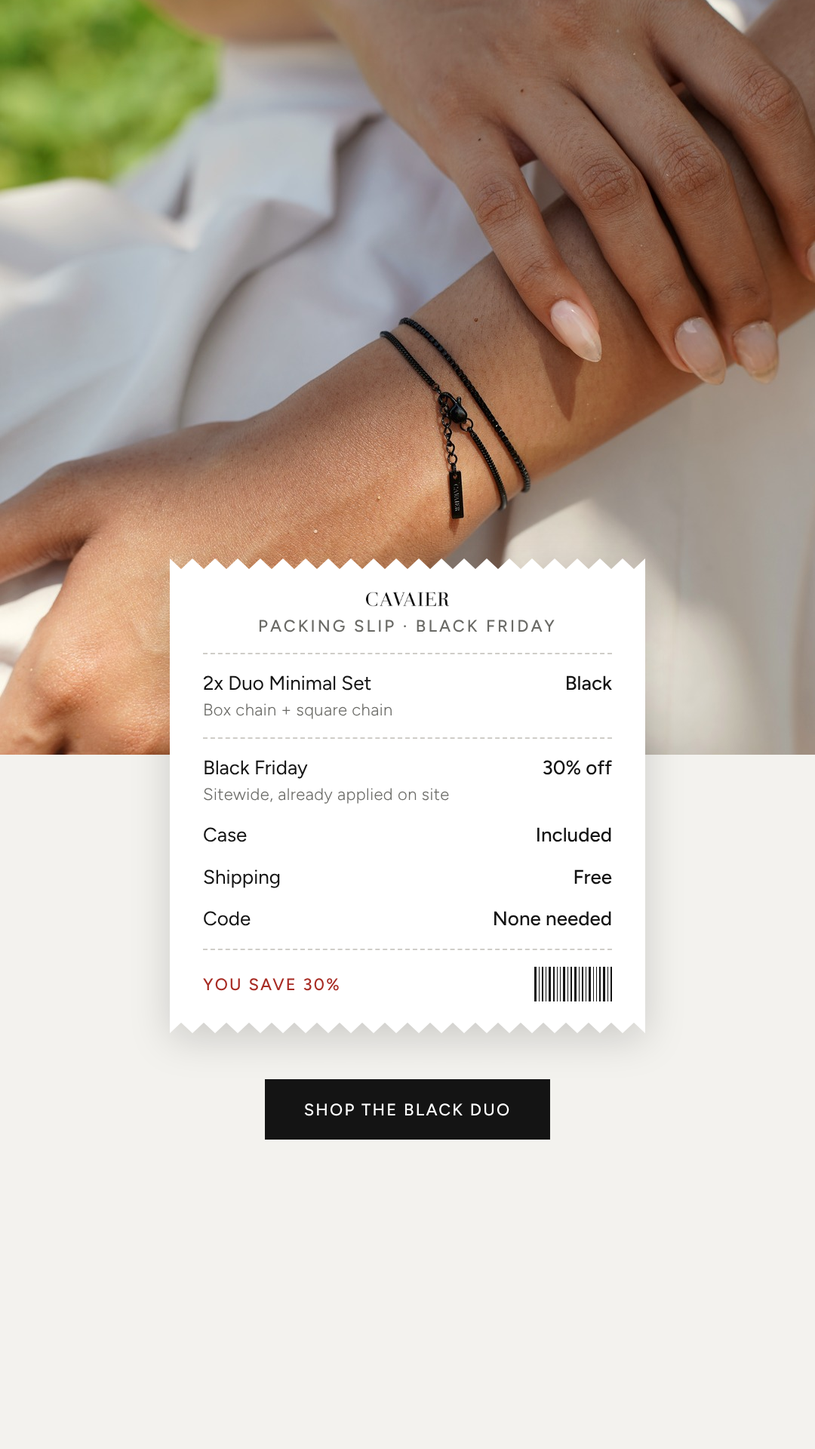
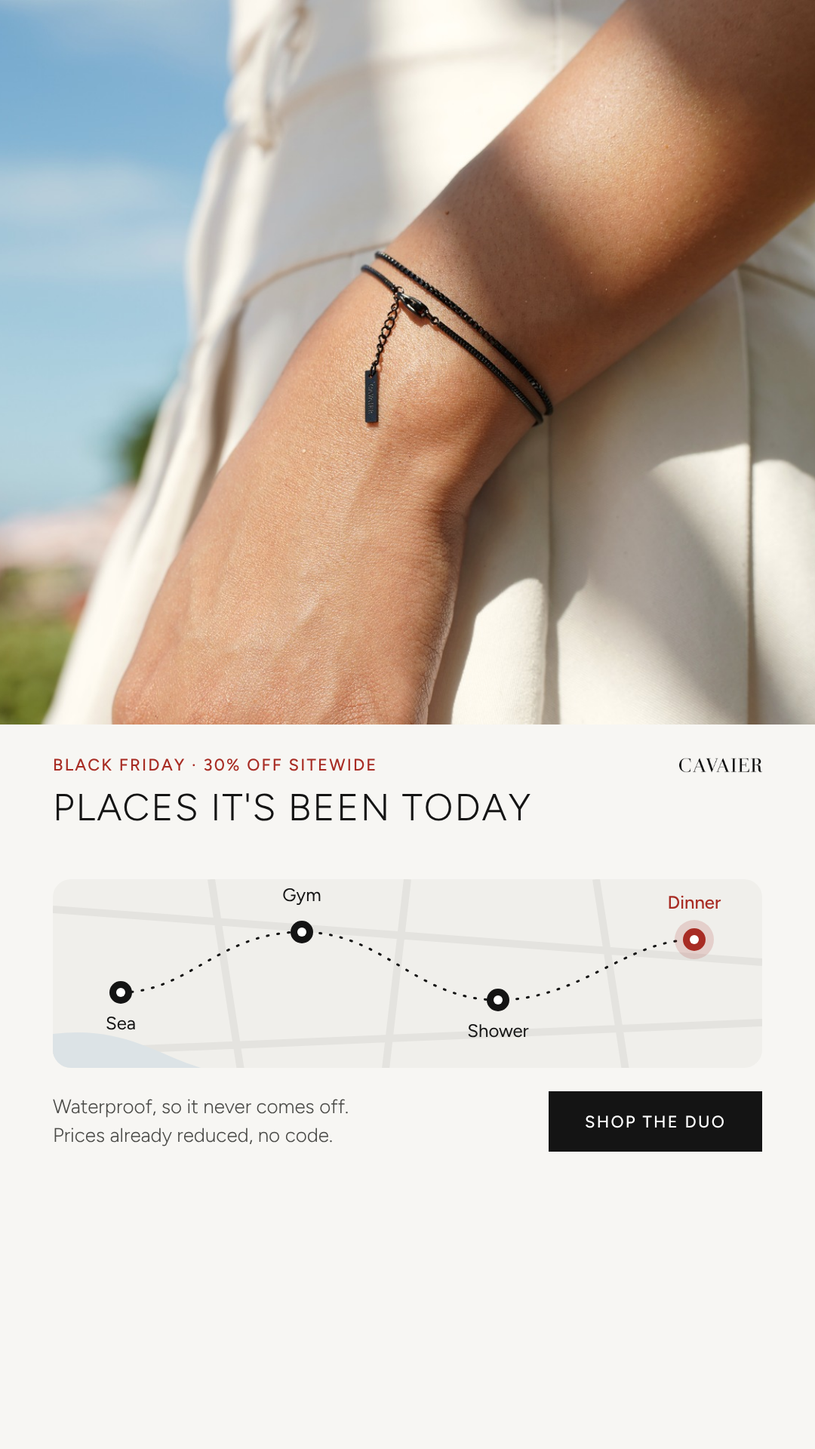
W435 new concepts: weather widget, now playing, places it's been (real RAW S9 photos)
Claude-Session: https://claude.ai/code/session_01LtGMNmy7hV4kZNsS3Vsb6Q

diff --git a/bfcm26/canvas/W435-C1.dc.html b/bfcm26/canvas/W435-C1.dc.html
@@ -2,7 +2,7 @@
 <html lang="en">
 <head>
 <meta charset="utf-8">
-<title>W Batch 435 - C1 · One duo, three ways</title>
+<title>W Batch 435 - C1 · Weather widget (black duo)</title>
 <script src="./support.js"></script>
 </head>
 <body>
@@ -14,18 +14,34 @@ body{margin:0}
 a{color:#141414}a:hover{color:#000000}
 </style>
 </helmet>
-<div style="width: 1080px; height: 1920px; position: relative; overflow: hidden; background: #F6F5F2; font-family: Figtree, sans-serif; color: #141414">
-<div style="position: absolute; top: 290px; left: 70px; width: 940px; display: flex; justify-content: space-between; align-items: flex-start">
-<div style="display: flex; flex-direction: column; gap: 18px">
-<span style="font-size: 22px; font-weight: 500; letter-spacing: 0.1em; color: #A82C24">BLACK FRIDAY · 30% OFF</span>
-<h1 style="margin: 0; font-size: 52px; line-height: 1.15; letter-spacing: 0.04em; font-weight: 300; text-transform: uppercase">One duo,<br><span style="font-weight: 400">three ways.</span></h1>
+<div style="width: 1080px; height: 1920px; position: relative; overflow: hidden; background: #EDEBE6; font-family: Figtree, sans-serif; color: #141414">
+<img src="/_blob/60d5c3dea2ec05bf77f0bec57ecd12a9" alt="Wet wrist with the black duo, hand dipping into the sea" style="position: absolute; inset: 0; width: 1080px; height: 1920px; object-fit: cover; display: block">
+<div style="position: absolute; top: 290px; left: 70px; width: 940px; box-sizing: border-box; padding: 40px 48px 44px; background: rgba(250,250,248,0.94); border-radius: 40px; box-shadow: 0 10px 40px rgba(0,0,0,0.10)">
+<div style="display: flex; justify-content: space-between; align-items: center">
+<span style="font-size: 22px; font-weight: 500; letter-spacing: 0.1em">TODAY · BEACH DAY</span>
+<img src="/_blob/b5d78a878b48e10609c923597dd1852e" alt="Cavaier" style="width: 110px; height: auto; display: block">
 </div>
-<img src="/_blob/b5d78a878b48e10609c923597dd1852e" alt="Cavaier" style="width: 110px; height: auto; display: block; margin-top: 6px">
+<div style="display: flex; align-items: center; justify-content: space-between; margin-top: 18px">
+<span style="font-size: 150px; font-weight: 300; line-height: 1; letter-spacing: -0.02em">29°</span>
+<div style="display: flex; flex-direction: column; align-items: flex-end; gap: 8px">
+<svg width="56" height="56" viewBox="0 0 56 56"><circle cx="28.0" cy="28.0" r="12.3" fill="none" stroke="#141414" stroke-width="2"/><line x1="47.0" y1="28.0" x2="54.3" y2="28.0" stroke="#141414" stroke-width="2" stroke-linecap="round"/><line x1="41.5" y1="41.5" x2="46.6" y2="46.6" stroke="#141414" stroke-width="2" stroke-linecap="round"/><line x1="28.0" y1="47.0" x2="28.0" y2="54.3" stroke="#141414" stroke-width="2" stroke-linecap="round"/><line x1="14.5" y1="41.5" x2="9.4" y2="46.6" stroke="#141414" stroke-width="2" stroke-linecap="round"/><line x1="9.0" y1="28.0" x2="1.7" y2="28.0" stroke="#141414" stroke-width="2" stroke-linecap="round"/><line x1="14.5" y1="14.5" x2="9.4" y2="9.4" stroke="#141414" stroke-width="2" stroke-linecap="round"/><line x1="28.0" y1="9.0" x2="28.0" y2="1.7" stroke="#141414" stroke-width="2" stroke-linecap="round"/><line x1="41.5" y1="14.5" x2="46.6" y2="9.4" stroke="#141414" stroke-width="2" stroke-linecap="round"/></svg>
+<span style="font-size: 30px; font-weight: 400">Sunny</span>
+<span style="font-size: 24px; font-weight: 300; color: #4A4A47">UV high · sea 22°</span>
 </div>
-<div style="position: absolute; top: 1440px; left: 70px; width: 940px; display: flex; align-items: center; justify-content: space-between">
-<span style="font-size: 24px; font-weight: 300; line-height: 1.5; color: #3A3A38">Black Friday: 30% off sitewide.<br>Prices already reduced.</span>
-<a href="https://cavaier.com/products/2x-duo-minimal-set-for-her?variant=54997776892250" style="display: inline-flex; align-items: center; justify-content: center; height: 80px; padding: 0 52px; background: #141414; color: #FFFFFF; text-decoration: none; font-size: 22px; font-weight: 500; letter-spacing: 0.1em">SHOP THE BLACK DUO</a>
-</div><div style="position: absolute; top: 540px; left: 70px; width: 940px; display: flex; justify-content: space-between"><figure style="margin: 0; width: 300px; display: flex; flex-direction: column; gap: 22px"><div style="position: relative; width: 300px; height: 700px"><img src="/_blob/151a6b8a6643e2803e13e68756fb3445" alt="The black duo on a wrist at the beach, sea behind" style="width: 300px; height: 700px; object-fit: cover; object-position: 50% 50%; display: block"><span style="position: absolute; top: 16px; left: 16px; width: 54px; height: 54px; display: flex; align-items: center; justify-content: center; background: #FFFFFF; color: #141414; font-size: 22px; font-weight: 500; letter-spacing: 0.04em; border-radius: 50%">01</span></div><figcaption style="display: flex; flex-direction: column; gap: 6px"><span style="font-size: 22px; font-weight: 500; letter-spacing: 0.1em">BEACH</span><span style="font-size: 24px; font-weight: 300; color: #3A3A38">Sea, salt and sun</span></figcaption></figure><figure style="margin: 0; width: 300px; display: flex; flex-direction: column; gap: 22px"><div style="position: relative; width: 300px; height: 700px"><img src="/_blob/5b96df18640eb4fc65700120faaa4210" alt="The black duo on a wrist with a white tank top" style="width: 300px; height: 700px; object-fit: cover; object-position: 50% 45%; display: block"><span style="position: absolute; top: 16px; left: 16px; width: 54px; height: 54px; display: flex; align-items: center; justify-content: center; background: #FFFFFF; color: #141414; font-size: 22px; font-weight: 500; letter-spacing: 0.04em; border-radius: 50%">02</span></div><figcaption style="display: flex; flex-direction: column; gap: 6px"><span style="font-size: 22px; font-weight: 500; letter-spacing: 0.1em">EVERYDAY</span><span style="font-size: 24px; font-weight: 300; color: #3A3A38">With a white tank</span></figcaption></figure><figure style="margin: 0; width: 300px; display: flex; flex-direction: column; gap: 22px"><div style="position: relative; width: 300px; height: 700px"><img src="/_blob/50d863f1681dc6e32bb5e8be1f652d54" alt="The black duo on a wrist against a black top" style="width: 300px; height: 700px; object-fit: cover; object-position: 50% 45%; display: block"><span style="position: absolute; top: 16px; left: 16px; width: 54px; height: 54px; display: flex; align-items: center; justify-content: center; background: #FFFFFF; color: #141414; font-size: 22px; font-weight: 500; letter-spacing: 0.04em; border-radius: 50%">03</span></div><figcaption style="display: flex; flex-direction: column; gap: 6px"><span style="font-size: 22px; font-weight: 500; letter-spacing: 0.1em">EVENING</span><span style="font-size: 24px; font-weight: 300; color: #3A3A38">All black, tag out</span></figcaption></figure></div>
+</div>
+<div style="display: flex; justify-content: space-between; margin-top: 30px; padding-top: 28px; border-top: 1px solid #D9D8D4"><div style="display: flex; flex-direction: column; align-items: center; gap: 12px; width: 150px"><span style="font-size: 22px; font-weight: 400; color: #4A4A47">09:00</span><svg width="34" height="34" viewBox="0 0 34 34"><circle cx="17.0" cy="17.0" r="7.5" fill="none" stroke="#141414" stroke-width="2"/><line x1="28.6" y1="17.0" x2="33.0" y2="17.0" stroke="#141414" stroke-width="2" stroke-linecap="round"/><line x1="25.2" y1="25.2" x2="28.3" y2="28.3" stroke="#141414" stroke-width="2" stroke-linecap="round"/><line x1="17.0" y1="28.6" x2="17.0" y2="33.0" stroke="#141414" stroke-width="2" stroke-linecap="round"/><line x1="8.8" y1="25.2" x2="5.7" y2="28.3" stroke="#141414" stroke-width="2" stroke-linecap="round"/><line x1="5.4" y1="17.0" x2="1.0" y2="17.0" stroke="#141414" stroke-width="2" stroke-linecap="round"/><line x1="8.8" y1="8.8" x2="5.7" y2="5.7" stroke="#141414" stroke-width="2" stroke-linecap="round"/><line x1="17.0" y1="5.4" x2="17.0" y2="1.0" stroke="#141414" stroke-width="2" stroke-linecap="round"/><line x1="25.2" y1="8.8" x2="28.3" y2="5.7" stroke="#141414" stroke-width="2" stroke-linecap="round"/></svg><span style="font-size: 27px; font-weight: 400">26°</span></div><div style="display: flex; flex-direction: column; align-items: center; gap: 12px; width: 150px"><span style="font-size: 22px; font-weight: 400; color: #4A4A47">12:00</span><svg width="34" height="34" viewBox="0 0 34 34"><circle cx="17.0" cy="17.0" r="7.5" fill="none" stroke="#141414" stroke-width="2"/><line x1="28.6" y1="17.0" x2="33.0" y2="17.0" stroke="#141414" stroke-width="2" stroke-linecap="round"/><line x1="25.2" y1="25.2" x2="28.3" y2="28.3" stroke="#141414" stroke-width="2" stroke-linecap="round"/><line x1="17.0" y1="28.6" x2="17.0" y2="33.0" stroke="#141414" stroke-width="2" stroke-linecap="round"/><line x1="8.8" y1="25.2" x2="5.7" y2="28.3" stroke="#141414" stroke-width="2" stroke-linecap="round"/><line x1="5.4" y1="17.0" x2="1.0" y2="17.0" stroke="#141414" stroke-width="2" stroke-linecap="round"/><line x1="8.8" y1="8.8" x2="5.7" y2="5.7" stroke="#141414" stroke-width="2" stroke-linecap="round"/><line x1="17.0" y1="5.4" x2="17.0" y2="1.0" stroke="#141414" stroke-width="2" stroke-linecap="round"/><line x1="25.2" y1="8.8" x2="28.3" y2="5.7" stroke="#141414" stroke-width="2" stroke-linecap="round"/></svg><span style="font-size: 27px; font-weight: 400">29°</span></div><div style="display: flex; flex-direction: column; align-items: center; gap: 12px; width: 150px"><span style="font-size: 22px; font-weight: 400; color: #4A4A47">15:00</span><svg width="34" height="34" viewBox="0 0 34 34"><circle cx="17.0" cy="17.0" r="7.5" fill="none" stroke="#141414" stroke-width="2"/><line x1="28.6" y1="17.0" x2="33.0" y2="17.0" stroke="#141414" stroke-width="2" stroke-linecap="round"/><line x1="25.2" y1="25.2" x2="28.3" y2="28.3" stroke="#141414" stroke-width="2" stroke-linecap="round"/><line x1="17.0" y1="28.6" x2="17.0" y2="33.0" stroke="#141414" stroke-width="2" stroke-linecap="round"/><line x1="8.8" y1="25.2" x2="5.7" y2="28.3" stroke="#141414" stroke-width="2" stroke-linecap="round"/><line x1="5.4" y1="17.0" x2="1.0" y2="17.0" stroke="#141414" stroke-width="2" stroke-linecap="round"/><line x1="8.8" y1="8.8" x2="5.7" y2="5.7" stroke="#141414" stroke-width="2" stroke-linecap="round"/><line x1="17.0" y1="5.4" x2="17.0" y2="1.0" stroke="#141414" stroke-width="2" stroke-linecap="round"/><line x1="25.2" y1="8.8" x2="28.3" y2="5.7" stroke="#141414" stroke-width="2" stroke-linecap="round"/></svg><span style="font-size: 27px; font-weight: 400">29°</span></div><div style="display: flex; flex-direction: column; align-items: center; gap: 12px; width: 150px"><span style="font-size: 22px; font-weight: 400; color: #4A4A47">Sea</span><svg width="34" height="34" viewBox="0 0 34 34"><path d="M3 13 q4.5 -5 9 0 t9 0 t9 0" fill="none" stroke="#141414" stroke-width="2" stroke-linecap="round"/><path d="M3 22 q4.5 -5 9 0 t9 0 t9 0" fill="none" stroke="#141414" stroke-width="2" stroke-linecap="round"/></svg><span style="font-size: 27px; font-weight: 400">22°</span></div></div>
+<div style="display: flex; align-items: center; gap: 18px; margin-top: 30px; padding-top: 28px; border-top: 1px solid #D9D8D4">
+<svg width="30" height="30" viewBox="0 0 30 30"><circle cx="15" cy="15" r="14" fill="#141414"/><path d="M9 15.5 l4 4 l8 -9" fill="none" stroke="#FFFFFF" stroke-width="2.2" stroke-linecap="round" stroke-linejoin="round"/></svg>
+<span style="font-size: 27px; font-weight: 300; line-height: 1.4"><span style="font-weight: 500">Your black duo:</span> waterproof, stays on.</span>
+</div>
+<div style="display: flex; align-items: center; justify-content: space-between; margin-top: 30px; padding-top: 30px; border-top: 1px solid #D9D8D4">
+<div style="display: flex; flex-direction: column; gap: 8px">
+<span style="font-size: 22px; font-weight: 500; letter-spacing: 0.1em; color: #A82C24">BLACK FRIDAY</span>
+<span style="font-size: 27px; font-weight: 300; line-height: 1.35">30% off sitewide.<br>No code needed.</span>
+</div>
+<a href="https://cavaier.com/products/2x-duo-minimal-set-for-her?variant=54997776892250" style="display: inline-flex; align-items: center; justify-content: center; height: 80px; padding: 0 48px; background: #141414; color: #FFFFFF; text-decoration: none; font-size: 22px; font-weight: 500; letter-spacing: 0.1em; white-space: nowrap; ">SHOP THE DUO</a>
+</div>
+</div>
 </div>
 </x-dc>
 <script type="text/x-dc" data-dc-script data-props='{"$preview":{"width":1080,"height":1920}}'>

diff --git a/bfcm26/canvas/W435-C3.dc.html b/bfcm26/canvas/W435-C3.dc.html
@@ -2,7 +2,7 @@
 <html lang="en">
 <head>
 <meta charset="utf-8">
-<title>W Batch 435 - C3 · Packing slip</title>
+<title>W Batch 435 - C3 · Places it's been (black duo)</title>
 <script src="./support.js"></script>
 </head>
 <body>
@@ -14,24 +14,23 @@ body{margin:0}
 a{color:#141414}a:hover{color:#000000}
 </style>
 </helmet>
-<div style="width: 1080px; height: 1920px; position: relative; overflow: hidden; background: #F3F2EE; font-family: Figtree, sans-serif; color: #141414">
-<img src="/_blob/1e8d3dc6d5333c600ef48c26767014df" alt="The black duo on a wrist resting on a white linen skirt" style="position: absolute; top: 0; left: 0; width: 1080px; height: 1000px; object-fit: cover; object-position: 50% 30%; display: block"><div style="position: absolute; top: 740px; left: 225px; width: 630px; filter: drop-shadow(0 14px 26px rgba(0,0,0,0.16))">
-<svg width="630" height="14" viewBox="0 0 630 14" style="display: block; transform: scaleY(-1)" aria-hidden="true"><polygon points="0,0 0,14 15,0 30,14 45,0 60,14 75,0 90,14 105,0 120,14 135,0 150,14 165,0 180,14 195,0 210,14 225,0 240,14 255,0 270,14 285,0 300,14 315,0 330,14 345,0 360,14 375,0 390,14 405,0 420,14 435,0 450,14 465,0 480,14 495,0 510,14 525,0 540,14 555,0 570,14 585,0 600,14 615,0 630,14 630,0" fill="#FFFFFF"></polygon></svg>
-<div style="background: #FFFFFF; box-sizing: border-box; padding: 30px 44px 28px; display: flex; flex-direction: column; gap: 22px">
-<div style="display: flex; flex-direction: column; align-items: center; gap: 12px"><img src="/_blob/b5d78a878b48e10609c923597dd1852e" alt="Cavaier" style="width: 110px; height: auto; display: block"><span style="font-size: 22px; font-weight: 500; letter-spacing: 0.14em; color: #6A6A66">PACKING SLIP · BLACK FRIDAY</span></div>
-<div style="height: 0; border-top: 2px dashed #CFCDC8"></div>
-<div style="display: flex; justify-content: space-between; align-items: flex-start; gap: 24px"><div style="font-size: 26px; font-weight: 400; line-height: 1.3">2x Duo Minimal Set<span style="display: block; margin-top: 4px; font-size: 22px; font-weight: 300; color: #6A6A66; letter-spacing: 0.02em">Box chain + square chain</span></div><span style="font-size: 26px; font-weight: 500; line-height: 1.3; white-space: nowrap">Black</span></div>
-<div style="height: 0; border-top: 2px dashed #CFCDC8"></div>
-<div style="display: flex; justify-content: space-between; align-items: flex-start; gap: 24px"><div style="font-size: 26px; font-weight: 400; line-height: 1.3">Black Friday<span style="display: block; margin-top: 4px; font-size: 22px; font-weight: 300; color: #6A6A66; letter-spacing: 0.02em">Sitewide, already applied on site</span></div><span style="font-size: 26px; font-weight: 500; line-height: 1.3; white-space: nowrap">30% off</span></div>
-<div style="display: flex; justify-content: space-between; align-items: flex-start; gap: 24px"><div style="font-size: 26px; font-weight: 400; line-height: 1.3">Case</div><span style="font-size: 26px; font-weight: 500; line-height: 1.3; white-space: nowrap">Included</span></div>
-<div style="display: flex; justify-content: space-between; align-items: flex-start; gap: 24px"><div style="font-size: 26px; font-weight: 400; line-height: 1.3">Shipping</div><span style="font-size: 26px; font-weight: 500; line-height: 1.3; white-space: nowrap">Free</span></div>
-<div style="display: flex; justify-content: space-between; align-items: flex-start; gap: 24px"><div style="font-size: 26px; font-weight: 400; line-height: 1.3">Code</div><span style="font-size: 26px; font-weight: 500; line-height: 1.3; white-space: nowrap">None needed</span></div>
-<div style="height: 0; border-top: 2px dashed #CFCDC8"></div>
-<div style="display: flex; justify-content: space-between; align-items: center"><span style="font-size: 22px; font-weight: 500; letter-spacing: 0.1em; color: #A82C24">YOU SAVE 30%</span><div style="display: flex; gap: 3px; align-items: flex-end"><span style="display: block; width: 3px; height: 46px; background: #141414"></span><span style="display: block; width: 1px; height: 46px; background: #141414"></span><span style="display: block; width: 2px; height: 46px; background: #141414"></span><span style="display: block; width: 1px; height: 46px; background: #141414"></span><span style="display: block; width: 3px; height: 46px; background: #141414"></span><span style="display: block; width: 2px; height: 46px; background: #141414"></span><span style="display: block; width: 1px; height: 46px; background: #141414"></span><span style="display: block; width: 1px; height: 46px; background: #141414"></span><span style="display: block; width: 3px; height: 46px; background: #141414"></span><span style="display: block; width: 1px; height: 46px; background: #141414"></span><span style="display: block; width: 2px; height: 46px; background: #141414"></span><span style="display: block; width: 3px; height: 46px; background: #141414"></span><span style="display: block; width: 1px; height: 46px; background: #141414"></span><span style="display: block; width: 2px; height: 46px; background: #141414"></span><span style="display: block; width: 1px; height: 46px; background: #141414"></span><span style="display: block; width: 3px; height: 46px; background: #141414"></span><span style="display: block; width: 1px; height: 46px; background: #141414"></span><span style="display: block; width: 1px; height: 46px; background: #141414"></span><span style="display: block; width: 2px; height: 46px; background: #141414"></span><span style="display: block; width: 3px; height: 46px; background: #141414"></span><span style="display: block; width: 1px; height: 46px; background: #141414"></span><span style="display: block; width: 2px; height: 46px; background: #141414"></span></div></div>
+<div style="width: 1080px; height: 1920px; position: relative; overflow: hidden; background: #F7F6F3; font-family: Figtree, sans-serif; color: #141414">
+<img src="/_blob/556893cc950a135775491894e8aa7324" alt="The black duo on a wrist against a white pleated skirt" style="position: absolute; top: 0; left: 0; width: 1080px; height: 960px; object-fit: cover; object-position: 50% 50%; display: block">
+<div style="position: absolute; top: 1000px; left: 70px; width: 940px; display: flex; justify-content: space-between; align-items: flex-start">
+<div style="display: flex; flex-direction: column; gap: 14px">
+<span style="font-size: 22px; font-weight: 500; letter-spacing: 0.1em; color: #A82C24">BLACK FRIDAY · 30% OFF SITEWIDE</span>
+<h1 style="margin: 0; font-size: 50px; line-height: 1.15; letter-spacing: 0.04em; font-weight: 300; text-transform: uppercase">Places it's been today</h1>
 </div>
-<svg width="630" height="14" viewBox="0 0 630 14" style="display: block" aria-hidden="true"><polygon points="0,0 0,14 15,0 30,14 45,0 60,14 75,0 90,14 105,0 120,14 135,0 150,14 165,0 180,14 195,0 210,14 225,0 240,14 255,0 270,14 285,0 300,14 315,0 330,14 345,0 360,14 375,0 390,14 405,0 420,14 435,0 450,14 465,0 480,14 495,0 510,14 525,0 540,14 555,0 570,14 585,0 600,14 615,0 630,14 630,0" fill="#FFFFFF"></polygon></svg>
+<img src="/_blob/b5d78a878b48e10609c923597dd1852e" alt="Cavaier" style="width: 110px; height: auto; display: block; margin-top: 4px">
 </div>
-<div style="position: absolute; top: 1430px; left: 0; width: 1080px; display: flex; justify-content: center"><a href="https://cavaier.com/products/2x-duo-minimal-set-for-her?variant=54997776892250" style="display: inline-flex; align-items: center; justify-content: center; height: 80px; padding: 0 52px; background: #141414; color: #FFFFFF; text-decoration: none; font-size: 22px; font-weight: 500; letter-spacing: 0.1em">SHOP THE BLACK DUO</a></div>
+<div style="position: absolute; top: 1165px; left: 70px; width: 940px; height: 250px; background: #F0EFEB; border-radius: 24px; overflow: hidden">
+<svg width="940" height="260" viewBox="0 0 940 260" style="position: absolute; left: 0; top: 0"><path d="M0 40 L940 110 M0 230 L940 190 M210 0 L250 260 M470 0 L440 260 M720 0 L760 260" stroke="#E4E3DF" stroke-width="10" fill="none"/><path d="M0 205 C 120 190, 160 260, 260 260 L0 260 Z" fill="#DCE3E6"/><path d="M90 150 C 180 150, 220 70, 330 70 S 480 160, 590 160 S 760 80, 850 80" fill="none" stroke="#141414" stroke-width="3" stroke-dasharray="2 12" stroke-linecap="round"/><circle cx="90" cy="150" r="15" fill="#141414"/><circle cx="90" cy="150" r="6" fill="#FFFFFF"/><circle cx="330" cy="70" r="15" fill="#141414"/><circle cx="330" cy="70" r="6" fill="#FFFFFF"/><circle cx="590" cy="160" r="15" fill="#141414"/><circle cx="590" cy="160" r="6" fill="#FFFFFF"/><circle cx="850" cy="80" r="26" fill="#A82C24" fill-opacity="0.16"/><circle cx="850" cy="80" r="15" fill="#A82C24"/><circle cx="850" cy="80" r="6" fill="#FFFFFF"/></svg>
+<span style="position: absolute; left: 10px; top: 176px; width: 160px; text-align: center; font-size: 24px; font-weight: 400; color: #141414">Sea</span><span style="position: absolute; left: 250px; top: 6px; width: 160px; text-align: center; font-size: 24px; font-weight: 400; color: #141414">Gym</span><span style="position: absolute; left: 510px; top: 186px; width: 160px; text-align: center; font-size: 24px; font-weight: 400; color: #141414">Shower</span><span style="position: absolute; left: 770px; top: 16px; width: 160px; text-align: center; font-size: 24px; font-weight: 500; color: #A82C24">Dinner</span>
+</div>
+<div style="position: absolute; top: 1446px; left: 70px; width: 940px; display: flex; align-items: center; justify-content: space-between">
+<span style="font-size: 26px; font-weight: 300; line-height: 1.45; color: #4A4A47">Waterproof, so it never comes off.<br>Prices already reduced, no code.</span>
+<a href="https://cavaier.com/products/2x-duo-minimal-set-for-her?variant=54997776892250" style="display: inline-flex; align-items: center; justify-content: center; height: 80px; padding: 0 48px; background: #141414; color: #FFFFFF; text-decoration: none; font-size: 22px; font-weight: 500; letter-spacing: 0.1em; white-space: nowrap; ">SHOP THE DUO</a>
+</div>
 </div>
 </x-dc>
 <script type="text/x-dc" data-dc-script data-props='{"$preview":{"width":1080,"height":1920}}'>

diff --git a/bfcm26/canvas/W435-C2.dc.html b/bfcm26/canvas/W435-C2.dc.html
@@ -2,7 +2,7 @@
 <html lang="en">
 <head>
 <meta charset="utf-8">
-<title>W Batch 435 - C2 · Poll card</title>
+<title>W Batch 435 - C2 · Now playing (black duo)</title>
 <script src="./support.js"></script>
 </head>
 <body>
@@ -14,20 +14,31 @@ body{margin:0}
 a{color:#141414}a:hover{color:#000000}
 </style>
 </helmet>
-<div style="width: 1080px; height: 1920px; position: relative; overflow: hidden; background: #E9E6E0; font-family: Figtree, sans-serif; color: #141414">
-<img src="/_blob/0e458a4585bf5d76778546869522ee36" alt="The black duo on a wet wrist under running sea water" style="position: absolute; top: 0; left: 0; width: 1080px; height: 1920px; object-fit: cover; display: block"><div style="position: absolute; top: 290px; left: 150px; width: 780px; box-sizing: border-box; padding: 36px 44px 40px; background: #FFFFFF; border-radius: 28px; box-shadow: 0 18px 50px rgba(0,0,0,0.16); display: flex; flex-direction: column; gap: 30px">
-<div style="display: flex; justify-content: space-between; align-items: center"><span style="font-size: 22px; font-weight: 500; letter-spacing: 0.1em; color: #6A6A66">QUICK POLL</span><img src="/_blob/b5d78a878b48e10609c923597dd1852e" alt="Cavaier" style="width: 110px; height: auto; display: block"></div>
-<h1 style="margin: 0; font-size: 46px; line-height: 1.22; letter-spacing: 0.01em; font-weight: 400">Sea, sweat, sun —<br>does it come off?</h1>
-<div style="display: flex; flex-direction: column; gap: 16px">
-<div style="height: 88px; box-sizing: border-box; padding: 0 30px; border-radius: 44px; background: #141414; color: #FFFFFF; display: flex; align-items: center; justify-content: space-between"><span style="font-size: 30px; font-weight: 500; letter-spacing: 0.02em">Never</span><svg width="30" height="30" viewBox="0 0 30 30" fill="none" stroke="#FFFFFF" stroke-width="2.4" aria-hidden="true"><circle cx="15" cy="15" r="13"></circle><path d="M9 15.5 l4 4 l8 -9"></path></svg></div>
-<div style="height: 88px; box-sizing: border-box; padding: 0 30px; border-radius: 44px; border: 2px solid #D6D5D1; color: #6A6A66; display: flex; align-items: center; justify-content: space-between"><span style="font-size: 30px; font-weight: 400; letter-spacing: 0.02em">Sometimes</span><svg width="30" height="30" viewBox="0 0 30 30" fill="none" stroke="#9A9A96" stroke-width="2" aria-hidden="true"><circle cx="15" cy="15" r="13"></circle></svg></div>
+<div style="width: 1080px; height: 1920px; position: relative; overflow: hidden; background: #F3F2EF; font-family: Figtree, sans-serif; color: #141414">
+<img src="/_blob/f5be43bbbf2abf5fd8b9dc6686a599fd" alt="Close-up of the black duo on a wet wrist" style="position: absolute; top: 380px; left: 180px; width: 720px; height: 720px; object-fit: cover; display: block; border-radius: 16px; box-shadow: 0 24px 60px rgba(0,0,0,0.16)">
+<div style="position: absolute; top: 290px; left: 70px; width: 940px; display: flex; justify-content: space-between; align-items: center">
+<div style="display: flex; flex-direction: column; gap: 6px">
+<span style="font-size: 22px; font-weight: 500; letter-spacing: 0.1em">NOW PLAYING</span>
+<span style="font-size: 22px; font-weight: 300; color: #4A4A47">On repeat: the black duo</span>
 </div>
-</div><div style="position: absolute; top: 1205px; left: 150px; width: 780px; box-sizing: border-box; padding: 34px 44px 44px; background: #FFFFFF; border-radius: 28px; box-shadow: 0 18px 50px rgba(0,0,0,0.16); display: flex; flex-direction: column; align-items: flex-start; gap: 16px">
-<span style="font-size: 22px; font-weight: 500; letter-spacing: 0.1em; color: #A82C24">THE ANSWER</span>
-<p style="margin: 0; font-size: 32px; line-height: 1.4; font-weight: 300">Waterproof, sweat and heat resistant. <span style="font-weight: 500">30% off this Black Friday.</span></p>
-<div style="height: 8px"></div>
-<a href="https://cavaier.com/products/2x-duo-minimal-set-for-her?variant=54997776892250" style="display: inline-flex; align-items: center; justify-content: center; height: 80px; padding: 0 52px; background: #141414; color: #FFFFFF; text-decoration: none; font-size: 22px; font-weight: 500; letter-spacing: 0.1em">SHOP THE BLACK DUO</a>
+<img src="/_blob/b5d78a878b48e10609c923597dd1852e" alt="Cavaier" style="width: 110px; height: auto; display: block">
 </div>
+<div style="position: absolute; top: 1130px; left: 180px; width: 720px">
+<div style="display: flex; justify-content: space-between; align-items: flex-end">
+<div style="display: flex; flex-direction: column; gap: 6px">
+<span style="font-size: 50px; font-weight: 400; letter-spacing: 0.01em; line-height: 1.1">Black Friday</span>
+<span style="font-size: 27px; font-weight: 300; color: #4A4A47">30% off sitewide · no code needed</span>
+</div>
+<svg width="40" height="40" viewBox="0 0 40 40"><path d="M20 34 C8 25 4 19 4 13.5 A8 8 0 0 1 20 10 A8 8 0 0 1 36 13.5 C36 19 32 25 20 34 Z" fill="#A82C24"/></svg>
+</div>
+<div style="position: relative; margin-top: 30px; height: 6px; background: #D6D5D1; border-radius: 3px">
+<div style="position: absolute; left: 0; top: 0; width: 30%; height: 6px; background: #141414; border-radius: 3px"></div>
+<div style="position: absolute; left: calc(30% - 10px); top: -7px; width: 20px; height: 20px; background: #141414; border-radius: 50%"></div>
+</div>
+<div style="display: flex; justify-content: space-between; margin-top: 12px; font-size: 22px; font-weight: 400; color: #4A4A47"><span>30% off</span><span>prices already reduced</span></div>
+<div style="display: flex; justify-content: space-between; align-items: center; margin-top: 14px"><svg width="36" height="36" viewBox="0 0 36 36"><path d="M4 10 h7 l14 16 h7 M4 26 h7 l4 -4.5 M21 14.5 l4 -4.5 h7 M28 6 l4 4 l-4 4 M28 22 l4 4 l-4 4" fill="none" stroke="#4A4A47" stroke-width="2" stroke-linecap="round" stroke-linejoin="round"/></svg><svg width="44" height="44" viewBox="0 0 44 44"><rect x="8" y="10" width="3" height="24" fill="#141414"/><path d="M36 10 L14 22 L36 34 Z" fill="#141414"/></svg><svg width="96" height="96" viewBox="0 0 96 96"><circle cx="48" cy="48" r="47" fill="#141414"/><rect x="36" y="32" width="7" height="32" fill="#FFFFFF"/><rect x="53" y="32" width="7" height="32" fill="#FFFFFF"/></svg><svg width="44" height="44" viewBox="0 0 44 44"><rect x="33" y="10" width="3" height="24" fill="#141414"/><path d="M8 10 L30 22 L8 34 Z" fill="#141414"/></svg><svg width="36" height="36" viewBox="0 0 36 36"><path d="M6 16 v-3 a4 4 0 0 1 4 -4 h20 M26 5 l4 4 l-4 4 M30 20 v3 a4 4 0 0 1 -4 4 h-20 M10 31 l-4 -4 l4 -4" fill="none" stroke="#4A4A47" stroke-width="2" stroke-linecap="round" stroke-linejoin="round"/></svg></div>
+</div>
+<div style="position: absolute; top: 1446px; left: 0; width: 1080px; display: flex; justify-content: center"><a href="https://cavaier.com/products/2x-duo-minimal-set-for-her?variant=54997776892250" style="display: inline-flex; align-items: center; justify-content: center; height: 80px; padding: 0 48px; background: #141414; color: #FFFFFF; text-decoration: none; font-size: 22px; font-weight: 500; letter-spacing: 0.1em; white-space: nowrap; ">SHOP THE BLACK DUO</a></div>
 </div>
 </x-dc>
 <script type="text/x-dc" data-dc-script data-props='{"$preview":{"width":1080,"height":1920}}'>
